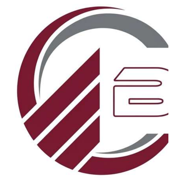
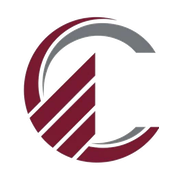
feat: add homepage components including hero, product carousel, and trust bar

diff --git a/src/components/home/ProductCarousel.tsx b/src/components/home/ProductCarousel.tsx
@@ -1,20 +1,32 @@
 "use client";
 
-import { useCallback, useEffect, useRef, useState } from "react";
+import React, { useCallback, useEffect, useRef, useState } from "react";
 import { ChevronLeft, ChevronRight } from "lucide-react";
 
-/** Native scroll-snap carousel: touch swipe works out of the box, buttons add desktop control. */
+/** Native scroll-snap carousel with desktop & mobile navigation controls and synchronized position indicators. */
 export default function ProductCarousel({ children, label }: { children: React.ReactNode; label: string }) {
   const ref = useRef<HTMLUListElement>(null);
   const [canPrev, setCanPrev] = useState(false);
   const [canNext, setCanNext] = useState(true);
+  const [activeIndex, setActiveIndex] = useState(0);
+
+  const count = React.Children.count(children);
 
   const update = useCallback(() => {
     const el = ref.current;
     if (!el) return;
-    setCanPrev(el.scrollLeft > 4);
-    setCanNext(el.scrollLeft + el.clientWidth < el.scrollWidth - 4);
-  }, []);
+    const scrollLeft = el.scrollLeft;
+    const maxScroll = el.scrollWidth - el.clientWidth;
+    setCanPrev(scrollLeft > 4);
+    setCanNext(scrollLeft + el.clientWidth < el.scrollWidth - 4);
+
+    if (maxScroll > 0 && count > 1) {
+      const card = el.querySelector("li");
+      const cardWidth = card ? card.getBoundingClientRect().width + 16 : 280;
+      const index = Math.min(count - 1, Math.max(0, Math.round(scrollLeft / cardWidth)));
+      setActiveIndex(index);
+    }
+  }, [count]);
 
   useEffect(() => {
     update();
@@ -30,20 +42,50 @@ export default function ProductCarousel({ children, label }: { children: React.R
     if (!el) return;
     const card = el.querySelector("li");
     const step = (card?.getBoundingClientRect().width ?? 280) + 16;
-    const reduce = window.matchMedia("(prefers-reduced-motion: reduce)").matches;
+    const reduce = typeof window !== "undefined" && window.matchMedia("(prefers-reduced-motion: reduce)").matches;
     el.scrollBy({ left: dir * step, behavior: reduce ? "auto" : "smooth" });
+  };
+
+  const scrollToIndex = (index: number) => {
+    const el = ref.current;
+    if (!el) return;
+    const cards = el.querySelectorAll("li");
+    const target = cards[index];
+    if (target) {
+      const reduce = typeof window !== "undefined" && window.matchMedia("(prefers-reduced-motion: reduce)").matches;
+      target.scrollIntoView({
+        behavior: reduce ? "auto" : "smooth",
+        block: "nearest",
+        inline: "start",
+      });
+    }
   };
 
   return (
     <div>
+      {/* Desktop navigation controls */}
       <div className="mb-4 hidden justify-end gap-2 md:flex">
-        <button type="button" onClick={() => scrollByCard(-1)} disabled={!canPrev} aria-label="Previous products" className="inline-flex h-11 w-11 items-center justify-center border border-steel-300 bg-white hover:border-brand hover:text-brand disabled:opacity-40">
+        <button
+          type="button"
+          onClick={() => scrollByCard(-1)}
+          disabled={!canPrev}
+          aria-label="Previous products"
+          className="inline-flex h-11 w-11 items-center justify-center border border-steel-300 bg-white text-steel-700 hover:border-brand hover:text-brand focus-visible:ring-2 focus-visible:ring-brand focus-visible:outline-none disabled:cursor-not-allowed disabled:opacity-40"
+        >
           <ChevronLeft className="h-5 w-5" aria-hidden />
         </button>
-        <button type="button" onClick={() => scrollByCard(1)} disabled={!canNext} aria-label="Next products" className="inline-flex h-11 w-11 items-center justify-center bg-brand text-white hover:bg-brand-deep disabled:opacity-40">
+        <button
+          type="button"
+          onClick={() => scrollByCard(1)}
+          disabled={!canNext}
+          aria-label="Next products"
+          className="inline-flex h-11 w-11 items-center justify-center bg-brand text-white hover:bg-brand-deep focus-visible:ring-2 focus-visible:ring-brand focus-visible:outline-none disabled:cursor-not-allowed disabled:opacity-40"
+        >
           <ChevronRight className="h-5 w-5" aria-hidden />
         </button>
       </div>
+
+      {/* Carousel items with native touch scrolling & card peeking */}
       <ul
         ref={ref}
         onScroll={update}
@@ -52,6 +94,48 @@ export default function ProductCarousel({ children, label }: { children: React.R
       >
         {children}
       </ul>
+
+      {/* Mobile navigation bar: indicators and previous/next controls */}
+      {count > 1 ? (
+        <div className="mt-4 flex items-center justify-between md:hidden" aria-label="Product navigation">
+          <button
+            type="button"
+            onClick={() => scrollByCard(-1)}
+            disabled={!canPrev}
+            aria-label="Previous products"
+            className="inline-flex h-10 w-10 items-center justify-center border border-steel-300 bg-white text-steel-700 hover:border-brand hover:text-brand focus-visible:ring-2 focus-visible:ring-brand focus-visible:outline-none disabled:cursor-not-allowed disabled:opacity-30"
+          >
+            <ChevronLeft className="h-5 w-5" aria-hidden />
+          </button>
+
+          {/* Synchronized pagination indicators */}
+          <div className="flex items-center gap-1.5" role="tablist" aria-label="Product slides">
+            {Array.from({ length: count }).map((_, i) => (
+              <button
+                key={i}
+                type="button"
+                role="tab"
+                aria-selected={i === activeIndex}
+                aria-label={`Go to product ${i + 1} of ${count}`}
+                onClick={() => scrollToIndex(i)}
+                className={`h-2 rounded-full transition-all focus-visible:ring-2 focus-visible:ring-brand focus-visible:outline-none ${
+                  i === activeIndex ? "w-6 bg-brand" : "w-2 bg-steel-300 hover:bg-steel-400"
+                }`}
+              />
+            ))}
+          </div>
+
+          <button
+            type="button"
+            onClick={() => scrollByCard(1)}
+            disabled={!canNext}
+            aria-label="Next products"
+            className="inline-flex h-10 w-10 items-center justify-center bg-brand text-white hover:bg-brand-deep focus-visible:ring-2 focus-visible:ring-brand focus-visible:outline-none disabled:cursor-not-allowed disabled:opacity-30"
+          >
+            <ChevronRight className="h-5 w-5" aria-hidden />
+          </button>
+        </div>
+      ) : null}
     </div>
   );
 }

diff --git a/tests/brand-assets.test.ts b/tests/brand-assets.test.ts
@@ -1,0 +1,57 @@
+import { readFileSync, existsSync } from "node:fs";
+import path from "node:path";
+import { describe, expect, it } from "vitest";
+import sharp from "sharp";
+
+const root = path.resolve(__dirname, "..");
+
+describe("Favicon, touch-icon, and logo assets (FIX 1 & FIX 2)", () => {
+  it("src/app/icon.png exists, is 512x512 PNG, and has alpha transparency", async () => {
+    const iconPath = path.join(root, "src/app/icon.png");
+    expect(existsSync(iconPath)).toBe(true);
+
+    const meta = await sharp(iconPath).metadata();
+    expect(meta.format).toBe("png");
+    expect(meta.width).toBe(512);
+    expect(meta.height).toBe(512);
+    expect(meta.hasAlpha).toBe(true);
+  });
+
+  it("src/app/apple-icon.png exists, is 180x180 PNG conforming to Apple Touch HIG", async () => {
+    const appleIconPath = path.join(root, "src/app/apple-icon.png");
+    expect(existsSync(appleIconPath)).toBe(true);
+
+    const meta = await sharp(appleIconPath).metadata();
+    expect(meta.format).toBe("png");
+    expect(meta.width).toBe(180);
+    expect(meta.height).toBe(180);
+  });
+
+  it("public/brand/logo-dark.png exists, is a valid PNG with transparent background", async () => {
+    const logoDarkPath = path.join(root, "public/brand/logo-dark.png");
+    expect(existsSync(logoDarkPath)).toBe(true);
+
+    const meta = await sharp(logoDarkPath).metadata();
+    expect(meta.format).toBe("png");
+    expect(meta.hasAlpha).toBe(true);
+    expect(meta.width).toBeGreaterThan(0);
+    expect(meta.height).toBeGreaterThan(0);
+
+    // Verify it contains transparent pixels
+    const { data } = await sharp(logoDarkPath).raw().toBuffer({ resolveWithObject: true });
+    let hasTransparentPixels = false;
+    for (let i = 3; i < data.length; i += 4) {
+      if (data[i] === 0) {
+        hasTransparentPixels = true;
+        break;
+      }
+    }
+    expect(hasTransparentPixels).toBe(true);
+  });
+
+  it("Footer.tsx uses transparent dark logo asset and removes artificial white background wrapper", () => {
+    const footerSrc = readFileSync(path.join(root, "src/components/layout/Footer.tsx"), "utf8");
+    expect(footerSrc).toContain("/brand/logo-dark.png");
+    expect(footerSrc).not.toMatch(/h-16\s+w-32\s+bg-white/);
+  });
+});

diff --git a/tests/carousel.test.ts b/tests/carousel.test.ts
@@ -1,0 +1,41 @@
+import { readFileSync } from "node:fs";
+import path from "node:path";
+import { describe, expect, it } from "vitest";
+
+const carouselSrc = readFileSync(
+  path.resolve(__dirname, "../src/components/home/ProductCarousel.tsx"),
+  "utf8"
+);
+
+describe("Product carousel responsive navigation and accessibility (FIX 4)", () => {
+  it("provides accessible labels for icon-only previous and next buttons", () => {
+    expect(carouselSrc).toContain('aria-label="Previous products"');
+    expect(carouselSrc).toContain('aria-label="Next products"');
+  });
+
+  it("includes mobile-accessible navigation controls and pagination indicators", () => {
+    // Mobile controls container is visible on mobile and hidden on md+
+    expect(carouselSrc).toMatch(/md:hidden/);
+    // Contains role="tablist" or pagination indicator group
+    expect(carouselSrc).toContain('role="tablist"');
+    expect(carouselSrc).toContain('role="tab"');
+  });
+
+  it("preserves desktop controls with md:flex", () => {
+    expect(carouselSrc).toMatch(/hidden.*md:flex/);
+  });
+
+  it("respects prefers-reduced-motion in scroll calculations", () => {
+    expect(carouselSrc).toContain("prefers-reduced-motion: reduce");
+  });
+
+  it("disables previous and next buttons when at the boundary", () => {
+    expect(carouselSrc).toContain("disabled={!canPrev}");
+    expect(carouselSrc).toContain("disabled={!canNext}");
+  });
+
+  it("includes visible focus indicators on interactive buttons", () => {
+    expect(carouselSrc).toContain("focus-visible:ring-2");
+    expect(carouselSrc).toContain("focus-visible:ring-brand");
+  });
+});

diff --git a/src/components/home/TrustBar.tsx b/src/components/home/TrustBar.tsx
@@ -6,14 +6,16 @@ const ICONS = [Factory, Users, ShieldCheck, Award];
 export default function TrustBar({ items }: { items: HomepageItem[] }) {
   if (items.length === 0) return null;
   return (
-    <section aria-label="Company strengths" className="steel-pattern text-white">
+    <section aria-label="Company strengths" className="steel-pattern border-y border-steel-800 text-white">
       <ul className="container-page grid gap-6 py-10 sm:grid-cols-2 lg:grid-cols-4">
         {items.map((it, i) => {
           const Icon = ICONS[i % ICONS.length] ?? Factory;
           return (
-            <li key={it.title} className="flex items-center gap-4">
-              <Icon className="h-9 w-9 shrink-0 text-white/90" aria-hidden />
-              <div><p className="font-semibold">{it.title}</p>{it.text ? <p className="text-sm text-steel-300">{it.text}</p> : null}</div>
+            <li key={it.title} className="flex items-center gap-4 border-steel-800/80 py-2 sm:border-r sm:last:border-r-0 sm:pr-4">
+              <div className="flex h-12 w-12 shrink-0 items-center justify-center border border-white/10 bg-white/5">
+                <Icon className="h-6 w-6 text-brand-soft" aria-hidden />
+              </div>
+              <div><p className="font-semibold text-white">{it.title}</p>{it.text ? <p className="text-sm text-steel-300">{it.text}</p> : null}</div>
             </li>
           );
         })}

diff --git a/src/components/home/ContactCta.tsx b/src/components/home/ContactCta.tsx
@@ -4,14 +4,16 @@ import { CtaLink } from "./Hero";
 
 export default function ContactCta({ section, settings }: { section: HomepageSection; settings: SiteSettings }) {
   return (
-    <section className="relative isolate overflow-hidden bg-steel-900 text-white">
+    <section className="relative isolate overflow-hidden border-t-2 border-brand border-b border-steel-800 bg-[#3D0C18] text-white">
       {section.image_public_id ? (
         <>
           <CloudImage publicId={section.image_public_id} alt={section.image_alt ?? ""} preset="hero" sizes="100vw" />
-          <div className="absolute inset-0 bg-steel-900/80" aria-hidden />
+          <div className="absolute inset-0 bg-gradient-to-r from-brand-950/90 via-[#3D0C18]/85 to-steel-900/80" aria-hidden />
         </>
-      ) : <div className="steel-pattern absolute inset-0" aria-hidden />}
-      <div className="container-page relative py-16">
+      ) : (
+        <div className="absolute inset-0 bg-gradient-to-br from-brand-900 via-[#45101E] to-[#25282c]" aria-hidden />
+      )}
+      <div className="container-page relative py-16 sm:py-20">
         <div className="max-w-2xl">
           {section.eyebrow ? <p className="mb-3 text-xs font-semibold uppercase tracking-[0.2em] text-steel-300">{section.eyebrow}</p> : null}
           <h2 className="text-3xl !text-white sm:text-4xl">{section.heading}</h2>

diff --git a/src/components/layout/Footer.tsx b/src/components/layout/Footer.tsx
@@ -20,11 +20,11 @@ export default function Footer({ settings, categories, services }: Props) {
     <footer className="bg-steel-900 text-steel-200">
       <div className="container-page grid gap-10 py-14 sm:grid-cols-2 lg:grid-cols-5">
         <div className="lg:col-span-2">
-          <div className="relative mb-4 inline-block h-16 w-32 bg-white p-2">
+          <div className="relative mb-4 inline-block h-14 w-44">
             {settings.logo_public_id ? (
-              <CloudImage publicId={settings.logo_public_id} alt={settings.company_name} preset="logo" sizes="128px" className="object-contain" />
+              <CloudImage publicId={settings.logo_public_id} alt={settings.company_name} preset="logo" sizes="176px" className="object-contain object-left" />
             ) : (
-              <Image src="/brand/logo-on-white.png" alt={settings.company_name} fill sizes="128px" className="object-contain p-2" />
+              <Image src="/brand/logo-dark.png" alt={settings.company_name} fill sizes="176px" className="object-contain object-left" priority={false} />
             )}
           </div>
           <p className="max-w-sm text-sm leading-relaxed text-steel-300">

diff --git a/src/app/(site)/page.tsx b/src/app/(site)/page.tsx
@@ -51,7 +51,7 @@ export default async function HomePage() {
       key: "featured_products",
       order: products.sort_order,
       node: (
-        <section key="featured_products" className="container-page py-16" aria-labelledby="products-heading">
+        <section key="featured_products" className="container-page py-16 sm:py-20" aria-labelledby="products-heading">
           <div className="mb-8 flex flex-col justify-between gap-4 sm:flex-row sm:items-end">
             <div className="max-w-2xl">
               {products.eyebrow ? <p className="eyebrow mb-3">{products.eyebrow}</p> : null}
@@ -79,7 +79,7 @@ export default async function HomePage() {
       key: "services",
       order: servicesSection.sort_order,
       node: (
-        <section key="services" className="bg-steel-50 py-16" aria-labelledby="services-heading">
+        <section key="services" className="border-y border-steel-200/70 bg-steel-50 py-16 sm:py-20" aria-labelledby="services-heading">
           <div className="container-page">
             <div className="mb-8 flex flex-col justify-between gap-4 sm:flex-row sm:items-end">
               <div className="max-w-2xl">

diff --git a/src/components/home/AboutPreview.tsx b/src/components/home/AboutPreview.tsx
@@ -6,9 +6,9 @@ import type { HomepageSection } from "@/types/db";
 
 export default function AboutPreview({ section }: { section: HomepageSection }) {
   return (
-    <section className="bg-steel-50">
+    <section className="border-y border-steel-200/60 bg-white">
       <div className="container-page grid items-center gap-10 py-16 lg:grid-cols-2">
-        <div className="relative aspect-[4/3] overflow-hidden bg-steel-200">
+        <div className="relative aspect-[4/3] overflow-hidden border border-steel-200 bg-steel-100 shadow-sm">
           {section.image_public_id ? <CloudImage publicId={section.image_public_id} alt={section.image_alt ?? ""} preset="about" sizes="(min-width:1024px) 50vw, 100vw" /> : <Placeholder />}
         </div>
         <div>

diff --git a/src/components/home/Hero.tsx b/src/components/home/Hero.tsx
@@ -17,7 +17,7 @@ export function CtaLink({ href, label, settings, variant }: { href: string | nul
 
 export default function Hero({ section, settings }: { section: HomepageSection; settings: SiteSettings }) {
   return (
-    <section className="relative isolate overflow-hidden bg-steel-900 text-white">
+    <section className="relative isolate overflow-hidden border-b border-steel-800 bg-steel-900 text-white">
       {section.image_public_id ? (
         <>
           <CloudImage publicId={section.image_public_id} alt={section.image_alt ?? ""} preset="hero" sizes="100vw" priority />
